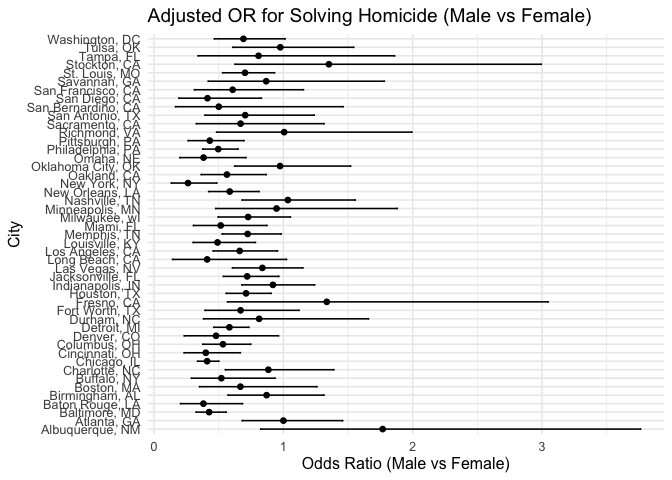
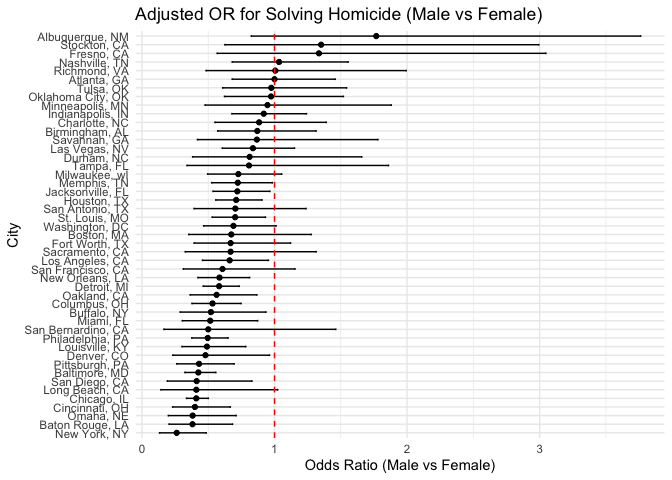
Problem 1 and 2

Changed region(s): [[0.0312, 0.0, 1.0, 1.0], [0.0, 0.4688, 0.0312, 0.5312]]

diff --git a/p8105_hw6_zz3460.md b/p8105_hw6_zz3460.md
@@ -47,8 +47,9 @@ homi <- read_csv("data/homicide-data.csv")
 
 ``` r
 homi_clean <- homi %>%
+  janitor::clean_names() %>%
   mutate(
-    city_state = paste(city, state, sep = ", "),
+    city_state = str_c(city, state, sep = ", "),
     disposition = str_trim(disposition),
     solved = if_else(disposition == "Closed by arrest", 1L, 0L),
     victim_age = as.numeric(victim_age),
@@ -56,8 +57,8 @@ homi_clean <- homi %>%
     victim_sex = str_to_title(str_trim(victim_sex))
   ) %>%
   filter(
-    !(city_state %in% c("Dallas, TX", "Phoenix, AZ", "Kansas City, MO", "Tulsa, AL")),  # drop specified cities
-    victim_race %in% c("White", "Black")                                               # keep only white/black
+    !(city_state %in% c("Dallas, TX", "Phoenix, AZ", "Kansas City, MO", "Tulsa, AL")), 
+    victim_race %in% c("White", "Black")                                               
   )
 ```
 
@@ -106,15 +107,10 @@ Fit a logistic regression for Baltimore.
 ``` r
 baltimore <- homi_clean %>% filter(city_state == "Baltimore, MD")
 
-baltimore <- baltimore %>%
-  mutate(victim_sex = factor(victim_sex, levels = c("Female", "Male")),
-         victim_race = factor(victim_race)) 
-
 balt_model <- glm(solved ~ victim_age + victim_sex + victim_race, data = baltimore, family = binomial())
 balt_tidy <- tidy(balt_model, conf.int = TRUE, exponentiate = TRUE)
 
-# pull the Male vs Female OR row (handle case term name might differ by dataset)
-balt_OR_row <- balt_tidy %>% filter(term %in% c("victim_sexMale", "victim_sexMale"))
+balt_OR_row <- balt_tidy %>% filter(term == "victim_sexMale")
 balt_OR_row
 ```
 
@@ -127,43 +123,140 @@ Fit models by city robustly, extract OR and CI for male vs female
 
 ``` r
 city_summary <- homi_clean %>%
-  group_by(city_state) %>%
-  summarise(n = n(), sexes = n_distinct(victim_sex), .groups = "drop") %>%
-  filter(n >= 10, sexes >= 2)
-
-cities <- city_summary$city_state
-
-models_by_city <- homi_clean %>%
-  filter(city_state %in% cities) %>%
-  group_by(city_state) %>%
-  nest() %>%
+  nest(data = -city_state) %>%
   mutate(
-    data = map(data, ~ .x %>% mutate(victim_sex = factor(victim_sex, levels = c("Female","Male")),
-                                     victim_race = factor(victim_race)) ),
-    model = map(data, ~ tryCatch(glm(solved ~ victim_age + victim_sex + victim_race, data = .x, family = binomial()), error = function(e) NULL)),
-    tidy = map(model, ~ if (is.null(.x)) tibble(term=NA, estimate=NA, std.error=NA, statistic=NA, p.value=NA, conf.low=NA, conf.high=NA) else tidy(.x, conf.int = TRUE, exponentiate = TRUE))
-  ) %>%
-  select(city_state, tidy) %>%
-  unnest(tidy)
+    fit = map(data, function(df) {
+      glm(solved ~ victim_sex + victim_age + victim_race, 
+          data = df, 
+          family = binomial)
+    }),
+    tidied = map(fit, ~tidy(., conf.int = TRUE, exponentiate = TRUE))
+  ) %>% 
+  unnest(tidied) %>% 
+  select(-data, -fit)
+```
 
-# pull male vs female rows and arrange
-or_by_city <- models_by_city %>%
+    ## Warning: There were 43 warnings in `mutate()`.
+    ## The first warning was:
+    ## ℹ In argument: `tidied = map(fit, ~tidy(., conf.int = TRUE, exponentiate =
+    ##   TRUE))`.
+    ## Caused by warning:
+    ## ! glm.fit: fitted probabilities numerically 0 or 1 occurred
+    ## ℹ Run `dplyr::last_dplyr_warnings()` to see the 42 remaining warnings.
+
+``` r
+or_by_city <- city_summary %>%
   filter(term == "victim_sexMale") %>%
   select(city_state, estimate, conf.low, conf.high, p.value) %>%
   arrange(estimate)
 
-# plot (English labels for Rmd)
+summary(or_by_city)
+```
+
+    ##   city_state           estimate         conf.low        conf.high     
+    ##  Length:47          Min.   :0.2624   Min.   :0.1328   Min.   :0.4850  
+    ##  Class :character   1st Qu.:0.4983   1st Qu.:0.3079   1st Qu.:0.8212  
+    ##  Mode  :character   Median :0.6740   Median :0.3935   Median :1.0242  
+    ##                     Mean   :0.7113   Mean   :0.4208   Mean   :1.2350  
+    ##                     3rd Qu.:0.8685   3rd Qu.:0.5433   3rd Qu.:1.4603  
+    ##                     Max.   :1.7675   Max.   :0.8247   Max.   :3.7619  
+    ##     p.value        
+    ##  Min.   :0.000000  
+    ##  1st Qu.:0.004651  
+    ##  Median :0.071763  
+    ##  Mean   :0.258692  
+    ##  3rd Qu.:0.503764  
+    ##  Max.   :0.999683
+
+``` r
+knitr::kable(or_by_city)
+```
+
+| city_state         |  estimate |  conf.low | conf.high |   p.value |
+|:-------------------|----------:|----------:|----------:|----------:|
+| New York, NY       | 0.2623978 | 0.1327512 | 0.4850117 | 0.0000454 |
+| Baton Rouge, LA    | 0.3814393 | 0.2043481 | 0.6836343 | 0.0016535 |
+| Omaha, NE          | 0.3824861 | 0.1988357 | 0.7109316 | 0.0029514 |
+| Cincinnati, OH     | 0.3998277 | 0.2313767 | 0.6670456 | 0.0006485 |
+| Chicago, IL        | 0.4100982 | 0.3361233 | 0.5008546 | 0.0000000 |
+| Long Beach, CA     | 0.4102163 | 0.1427304 | 1.0241775 | 0.0717631 |
+| San Diego, CA      | 0.4130248 | 0.1913527 | 0.8301847 | 0.0172175 |
+| Baltimore, MD      | 0.4255117 | 0.3241908 | 0.5575508 | 0.0000000 |
+| Pittsburgh, PA     | 0.4307528 | 0.2626022 | 0.6955518 | 0.0006724 |
+| Denver, CO         | 0.4790620 | 0.2327380 | 0.9624974 | 0.0410964 |
+| Louisville, KY     | 0.4905546 | 0.3014879 | 0.7836391 | 0.0033700 |
+| Philadelphia, PA   | 0.4962756 | 0.3760120 | 0.6498797 | 0.0000005 |
+| San Bernardino, CA | 0.5003444 | 0.1655367 | 1.4623977 | 0.2056661 |
+| Miami, FL          | 0.5152379 | 0.3040214 | 0.8734480 | 0.0134772 |
+| Buffalo, NY        | 0.5205704 | 0.2884416 | 0.9358300 | 0.0289521 |
+| Columbus, OH       | 0.5324845 | 0.3770457 | 0.7479124 | 0.0003039 |
+| Oakland, CA        | 0.5630819 | 0.3637421 | 0.8671086 | 0.0093743 |
+| Detroit, MI        | 0.5823472 | 0.4619454 | 0.7335458 | 0.0000045 |
+| New Orleans, LA    | 0.5849373 | 0.4218807 | 0.8121787 | 0.0013105 |
+| San Francisco, CA  | 0.6075362 | 0.3116925 | 1.1551470 | 0.1336164 |
+| Los Angeles, CA    | 0.6618816 | 0.4565014 | 0.9541036 | 0.0279274 |
+| Sacramento, CA     | 0.6688418 | 0.3262733 | 1.3143888 | 0.2548059 |
+| Fort Worth, TX     | 0.6689803 | 0.3935128 | 1.1211603 | 0.1311687 |
+| Boston, MA         | 0.6739912 | 0.3534469 | 1.2768225 | 0.2256969 |
+| Washington, DC     | 0.6901713 | 0.4653608 | 1.0122516 | 0.0608080 |
+| St. Louis, MO      | 0.7031665 | 0.5298505 | 0.9319005 | 0.0143877 |
+| San Antonio, TX    | 0.7046200 | 0.3928179 | 1.2382509 | 0.2303369 |
+| Houston, TX        | 0.7110264 | 0.5569844 | 0.9057376 | 0.0059322 |
+| Jacksonville, FL   | 0.7198144 | 0.5359236 | 0.9650986 | 0.0283233 |
+| Memphis, TN        | 0.7232194 | 0.5261210 | 0.9835973 | 0.0420463 |
+| Milwaukee, wI      | 0.7271327 | 0.4951325 | 1.0542297 | 0.0976722 |
+| Tampa, FL          | 0.8077029 | 0.3395253 | 1.8598834 | 0.6193928 |
+| Durham, NC         | 0.8123514 | 0.3824420 | 1.6580169 | 0.5761077 |
+| Las Vegas, NV      | 0.8373078 | 0.6058830 | 1.1510854 | 0.2776086 |
+| Savannah, GA       | 0.8669817 | 0.4185827 | 1.7802453 | 0.6973523 |
+| Birmingham, AL     | 0.8700153 | 0.5713814 | 1.3138409 | 0.5111455 |
+| Charlotte, NC      | 0.8838976 | 0.5507440 | 1.3905954 | 0.6004077 |
+| Indianapolis, IN   | 0.9187284 | 0.6784616 | 1.2413059 | 0.5818930 |
+| Minneapolis, MN    | 0.9469587 | 0.4759016 | 1.8809745 | 0.8757279 |
+| Oklahoma City, OK  | 0.9740747 | 0.6228507 | 1.5199721 | 0.9079362 |
+| Tulsa, OK          | 0.9757694 | 0.6090664 | 1.5439356 | 0.9174584 |
+| Atlanta, GA        | 1.0000771 | 0.6803477 | 1.4582575 | 0.9996829 |
+| Richmond, VA       | 1.0060520 | 0.4834671 | 1.9936248 | 0.9865837 |
+| Nashville, TN      | 1.0342379 | 0.6807452 | 1.5559966 | 0.8728884 |
+| Fresno, CA         | 1.3351647 | 0.5672553 | 3.0475080 | 0.4963822 |
+| Stockton, CA       | 1.3517273 | 0.6256427 | 2.9941299 | 0.4474507 |
+| Albuquerque, NM    | 1.7674995 | 0.8247081 | 3.7618600 | 0.1392989 |
+
+``` r
 or_by_city %>%
   mutate(city_state = fct_reorder(city_state, estimate)) %>%
   ggplot(aes(x = city_state, y = estimate)) +
   geom_point() +
   geom_errorbar(aes(ymin = conf.low, ymax = conf.high), width = 0.2) +
+  geom_hline(yintercept = 1, color = "red", linetype = "dashed") +
   coord_flip() +
   labs(title = "Adjusted OR for Solving Homicide (Male vs Female)", x = "City", y = "Odds Ratio (Male vs Female)") +
-  theme_minimal(base_size = 12)
+  theme_minimal()
 ```
 
 ![](p8105_hw6_zz3460_files/figure-gfm/unnamed-chunk-4-1.png)<!-- -->
+
+Interpretation of the Forest Plot
+
+This forest plot displays the adjusted odds ratios (ORs) and 95%
+confidence intervals (CIs) for solving homicides (male vs. female
+victims) across cities, ordered by OR magnitude from lowest (top of the
+plot) to highest (bottom of the plot).
+
+The red dashed line at OR = 1 represents the “no difference” baseline:
+
+- Cities with ORs and CIs entirely to the left of the baseline (e.g.,
+  San Diego, CA and New York, NY) indicate female victims have
+  statistically significantly higher odds of their homicides being
+  solved than male victims.
+
+- Most cities have CIs that cross the OR = 1 baseline, meaning there is
+  no statistically significant difference in the odds of solving
+  homicides between male and female victims in these locations.
+
+Overall, while there is variation in ORs across cities, only a small
+subset show statistically significant differences in the odds of solving
+homicides by victim sex.
 
 ## Problem 2
 
@@ -187,28 +280,65 @@ boot_results <- map_dfr(seq_len(B), function(i) {
   td <- tidy(fit)
   beta_tmin <- td %>% filter(term == "tmin") %>% pull(estimate)
   beta_prcp <- td %>% filter(term == "prcp") %>% pull(estimate)
-  tibble(r2 = r2, beta_prod = beta_tmin * beta_prcp)
+  tibble(r2 = r2, beta_ratio = beta_tmin / beta_prcp)
 })
+ 
+print(boot_results)
 ```
+
+    ## # A tibble: 5,000 × 2
+    ##       r2 beta_ratio
+    ##    <dbl>      <dbl>
+    ##  1 0.936      -221.
+    ##  2 0.941      -172.
+    ##  3 0.939      -218.
+    ##  4 0.942      -170.
+    ##  5 0.939      -203.
+    ##  6 0.940      -198.
+    ##  7 0.944      -169.
+    ##  8 0.939      -195.
+    ##  9 0.940      -179.
+    ## 10 0.945      -228.
+    ## # ℹ 4,990 more rows
 
 Distribution and CI
 
 ``` r
-r2_CI <- quantile(boot_results$r2, c(0.025, 0.975))
-beta_prod_CI <- quantile(boot_results$beta_prod, c(0.025, 0.975))
-
-ggplot(boot_results, aes(r2)) + geom_histogram(bins = 40) + labs(title = "Bootstrap distribution of R-squared")
+ggplot(boot_results, aes(r2)) + geom_density(fill = "blue", alpha = 0.5) + labs(title = "Bootstrap distribution of R-squared")
 ```
 
 ![](p8105_hw6_zz3460_files/figure-gfm/unnamed-chunk-7-1.png)<!-- -->
 
 ``` r
-ggplot(boot_results, aes(beta_prod)) + geom_histogram(bins = 40) + labs(title = "Bootstrap distribution of beta1 * beta2")
+ggplot(boot_results, aes(beta_ratio)) + geom_density(fill = "blue", alpha = 0.5) + labs(title = "Bootstrap distribution of beta1 / beta2")
 ```
 
 ![](p8105_hw6_zz3460_files/figure-gfm/unnamed-chunk-7-2.png)<!-- -->
 
+## Bootstrap Distribution of $R^2$
+
+The bootstrap distribution for $R^2$ is very tightly clustered, with its
+peak at around 0.941. The distribution extends slightly to the left,
+reaching a lower bound of roughly 0.930, and tops out near 0.950 on the
+upper end. These uniformly high values show that the model captures
+about 93% to 95% of the variation in daily maximum temperature, evidence
+of an extremely strong and reliable fit.
+
+## Bootstrap Distribution of $\beta_{\text{ratio}}$
+
+The bootstrap distribution for $\beta_{\text{ratio}}$ (the ratio of the
+$t_{\text{min}}$ and $\text{prcp}$ coefficients) is roughly unimodal,
+with a clear leftward skew and a central value of about -170. Most of
+the estimates lie between -100 and -300, and every value in the
+distribution is negative. This tells us that the two predictors act in
+opposite directions. The pronounced left tail arises because, in some
+bootstrap samples, the precipitation coefficient (the denominator of the
+ratio) is near zero, making the ratio large and negative.
+
 ``` r
+r2_CI <- quantile(boot_results$r2, c(0.025, 0.975))
+beta_ratio_CI <- quantile(boot_results$beta_ratio, c(0.025, 0.975))
+
 r2_CI
 ```
 
@@ -216,11 +346,25 @@ r2_CI
     ## 0.9341324 0.9465590
 
 ``` r
-beta_prod_CI
+beta_ratio_CI
 ```
 
-    ##         2.5%        97.5% 
-    ## -0.008268478 -0.003748858
+    ##      2.5%     97.5% 
+    ## -277.8610 -125.1789
+
+The 95% confidence interval for $\beta_{\text{ratio}}$ falls between
+–277.8610 and –125.1789. Because this entire interval is strictly
+negative and does not include zero, we conclude with 95% confidence that
+the ratio of the coefficients is statistically significant and negative.
+This indicates that the two predictors consistently have effects in
+opposite directions (specifically, minimum temperature has a positive
+effect while precipitation has a negative effect).
+
+The 95% confidence interval for $R^2$ ranges from 0.934 to 0.947. This
+narrow and high interval shows that the model is highly robust. We can
+be 95% confident that the predictors explain between 93.4% and 94.7% of
+the variation in maximum temperature, demonstrating strong and stable
+predictive performance.
 
 ## Problem 3
 
